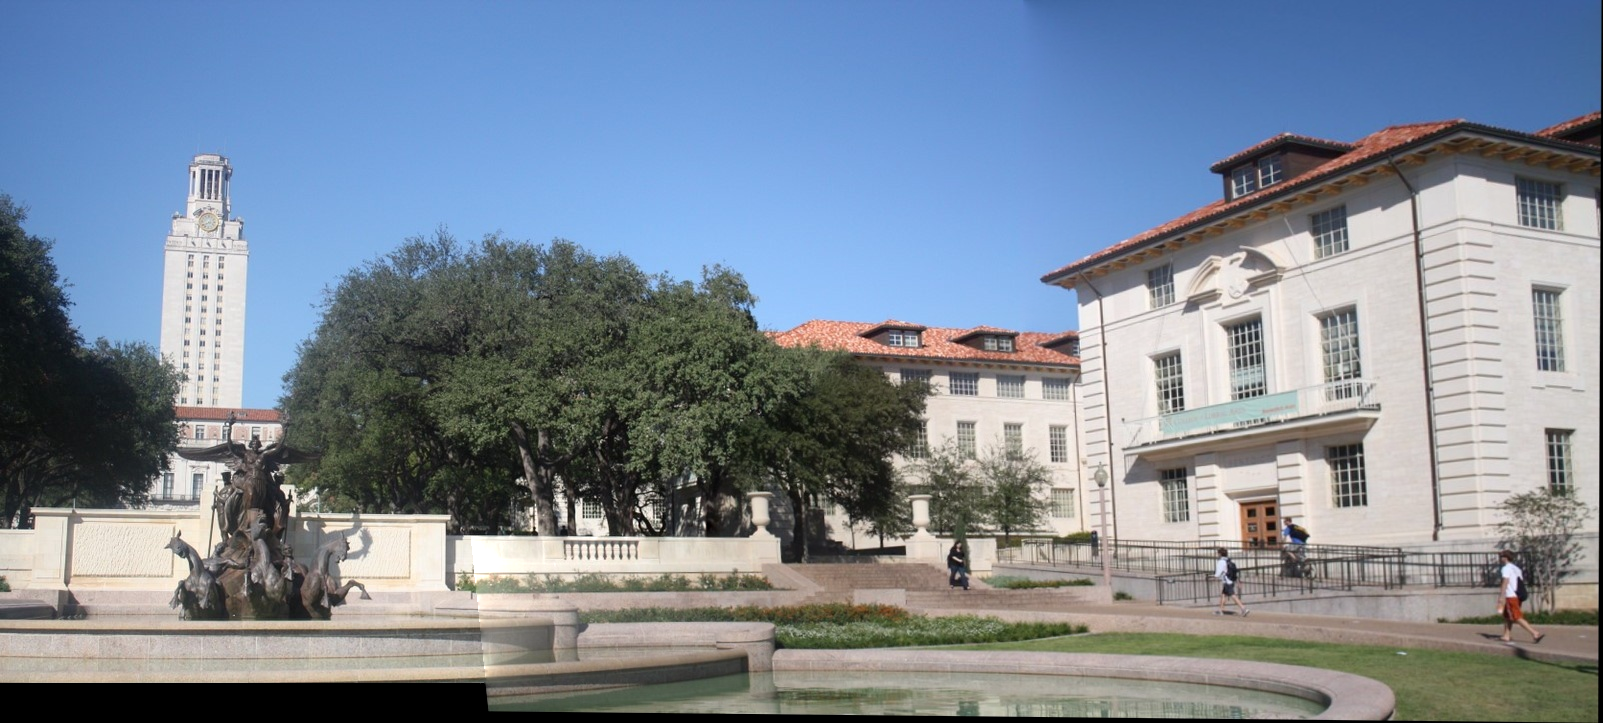
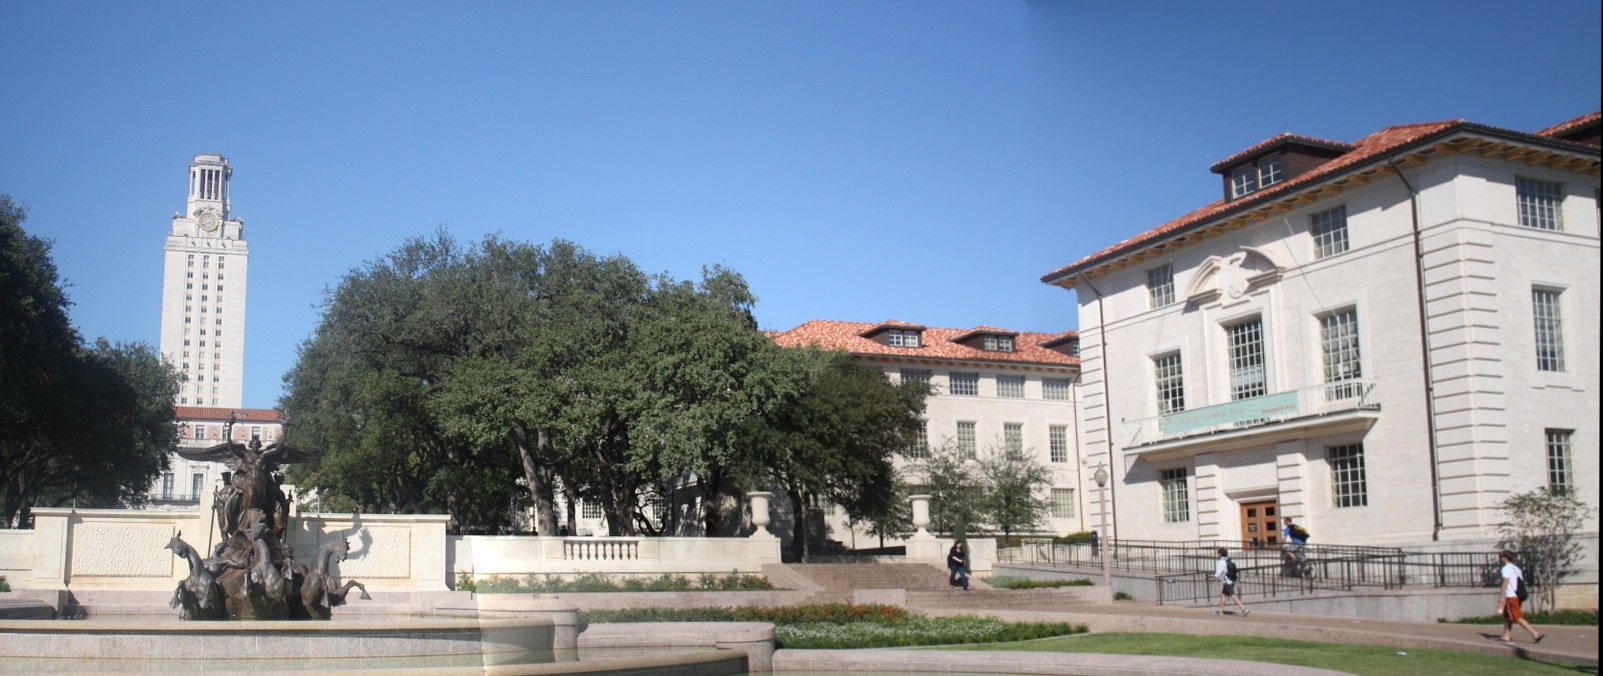
Prj1 complete

diff --git a/project1/src/graphcut.py b/project1/src/graphcut.py
@@ -91,7 +91,7 @@ class GraphCut:
         self._input_gradient_x, self._input_gradient_y = self.get_gradient(im)
         self._input_h, self._input_w = im.shape[:2]
 
-    def __init__(self, im, out_size):
+    def __init__(self, im, out_size, use_grad=True):
         self._input = np.copy(im)
         self._input_gradient_x, self._input_gradient_y = self.get_gradient(im)
 
@@ -116,6 +116,7 @@ class GraphCut:
 
         ## visualization params
         self.seam_size = 1
+        self.use_grad = use_grad
 
     @property
     def output(self):
@@ -509,17 +510,26 @@ class GraphCut:
                             ##     A -- cap2 -- + -- cap3 -- A2     +: the seam node
                             cap1 = self._global_nodes[j + ty, i + tx].right_cost  # memorized old cut
                             
-                            grad = A_gr_x[j, i] + A2_gr_x[j, i + 1] + B_gr_x[j, i] + B_gr_x[j, i + 1] + 1.
+                            if self.use_grad:
+                                grad = A_gr_x[j, i] + A2_gr_x[j, i + 1] + B_gr_x[j, i] + B_gr_x[j, i + 1] + 1.
+                            else:
+                                grad = 1.
                             cap2 = (color_diff_AB[j, i] + color_diff_A2B[j, i + 1]) / grad
                             cap2 += self._MIN_CAP
 
-                            grad = A2_gr_x[j, i] + A_gr_x[j, i + 1] + B_gr_x[j, i] + B_gr_x[j, i + 1] + 1.
+                            if self.use_grad:
+                                grad = A2_gr_x[j, i] + A_gr_x[j, i + 1] + B_gr_x[j, i] + B_gr_x[j, i + 1] + 1.
+                            else:
+                                grad = 1.
                             cap3 = (color_diff_A2B[j, i] + color_diff_AB[j, i + 1]) / grad
                             cap3 += self._MIN_CAP
 
                             seam_nodes.append(SeamNode(s, t, cap1, cap2, cap3, 'right'))
                         else:
-                            grad = A_gr_x[j, i] + A_gr_x[j, i + 1] + B_gr_x[j, i] + B_gr_x[j, i + 1] + 1.
+                            if self.use_grad:
+                                grad = A_gr_x[j, i] + A_gr_x[j, i + 1] + B_gr_x[j, i] + B_gr_x[j, i + 1] + 1.
+                            else:
+                                grad = 1.
                             cap = (color_diff_AB[j, i] + color_diff_AB[j, i + 1]) / grad
                             cap += self._MIN_CAP
                             G.add_edge(s, t, cap, cap)
@@ -535,17 +545,26 @@ class GraphCut:
                             # old seam present, similar to the above codes
                             cap1 = self._global_nodes[j + ty, i + tx].bottom_cost  # memorized old cut
                             
-                            grad = A_gr_y[j, i] + A2_gr_y[j + 1, i] + B_gr_y[j, i] + B_gr_y[j + 1, i] + 1.
+                            if self.use_grad:
+                                grad = A_gr_y[j, i] + A2_gr_y[j + 1, i] + B_gr_y[j, i] + B_gr_y[j + 1, i] + 1.
+                            else:
+                                grad = 1.
                             cap2 = (color_diff_AB[j, i] + color_diff_A2B[j + 1, i]) / grad
                             cap2 += self._MIN_CAP
 
-                            grad = A2_gr_y[j, i] + A_gr_y[j + 1, i] + B_gr_y[j, i] + B_gr_y[j + 1, i] + 1.
+                            if self.use_grad:
+                                grad = A2_gr_y[j, i] + A_gr_y[j + 1, i] + B_gr_y[j, i] + B_gr_y[j + 1, i] + 1.
+                            else:
+                                grad = 1.
                             cap3 = (color_diff_A2B[j, i] + color_diff_AB[j + 1, i]) / grad
                             cap3 += self._MIN_CAP
 
                             seam_nodes.append(SeamNode(s, t, cap1, cap2, cap3, 'bottom'))
                         else:
-                            grad = A_gr_y[j, i] + A_gr_y[j + 1, i] + B_gr_y[j, i] + B_gr_y[j + 1, i] + 1.
+                            if self.use_grad:
+                                grad = A_gr_y[j, i] + A_gr_y[j + 1, i] + B_gr_y[j, i] + B_gr_y[j + 1, i] + 1.
+                            else:
+                                grad = 1.
                             cap = (color_diff_AB[j, i] + color_diff_AB[j + 1, i]) / grad
                             cap += self._MIN_CAP
                             G.add_edge(s, t, cap, cap)

diff --git a/project1/src/main.py b/project1/src/main.py
@@ -15,6 +15,7 @@ if __name__ == '__main__':
     parser.add_argument('-refine', help='Refinement rounds', type=int, default=0)
     parser.add_argument('-diameter', help='Refinement diameter', type=int, default=3)
     parser.add_argument('-output', help='Output dir', type=str, default=None)
+    parser.add_argument('-no_grad', action='store_true', default=False)
     args = parser.parse_args()
 
     im = np.array(Image.open(args.im).convert('RGB'))
@@ -23,7 +24,7 @@ if __name__ == '__main__':
     assert args.refine >= 0
     res_h = int(round(h * args.h_ratio))
     res_w = int(round(w * args.w_ratio))
-    blender = GraphCut(im, (res_h, res_w))
+    blender = GraphCut(im, (res_h, res_w), use_grad=not args.no_grad)
 
     step_x, step_y = w // 3, h // 3
     if args.overlap_x > 0 and args.overlap_y > 0:

diff --git a/project1/src/interactive.py b/project1/src/interactive.py
@@ -1,6 +1,4 @@
 from pathlib import Path
-
-from numpy.core.numeric import True_
 from graphcut import GraphCut
 from argparse import ArgumentParser
 from PIL import Image, ImageDraw
